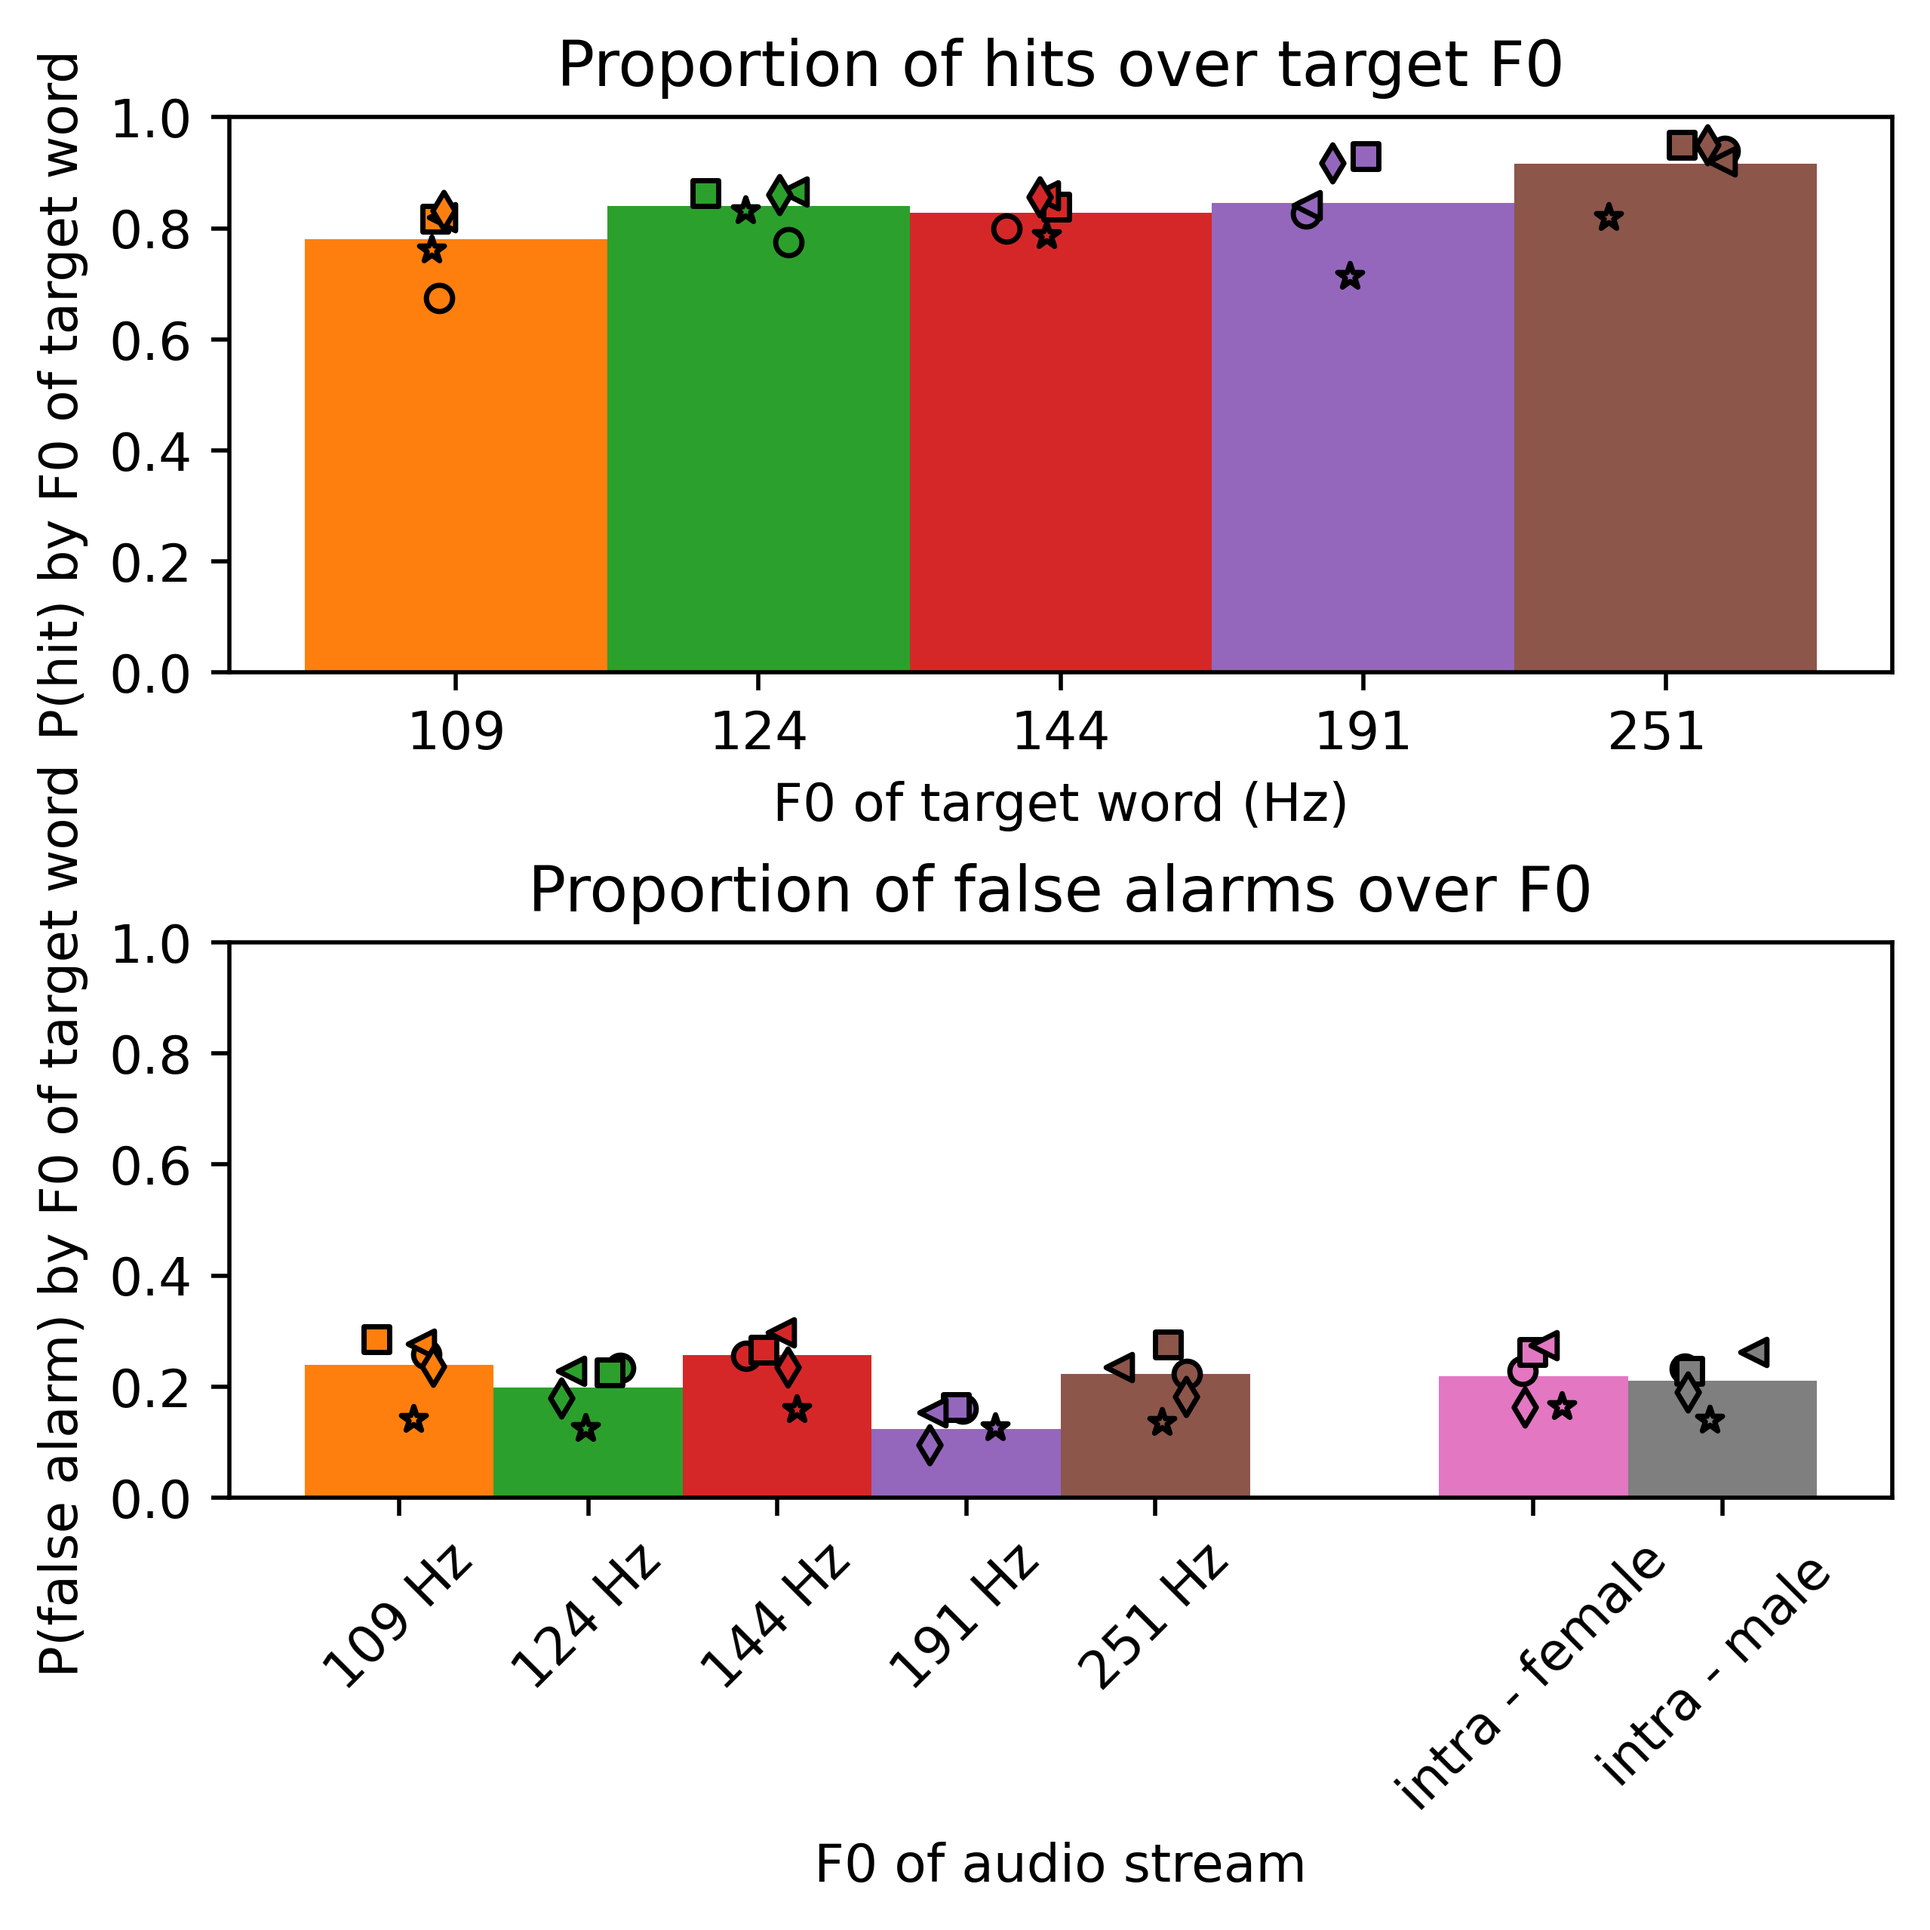
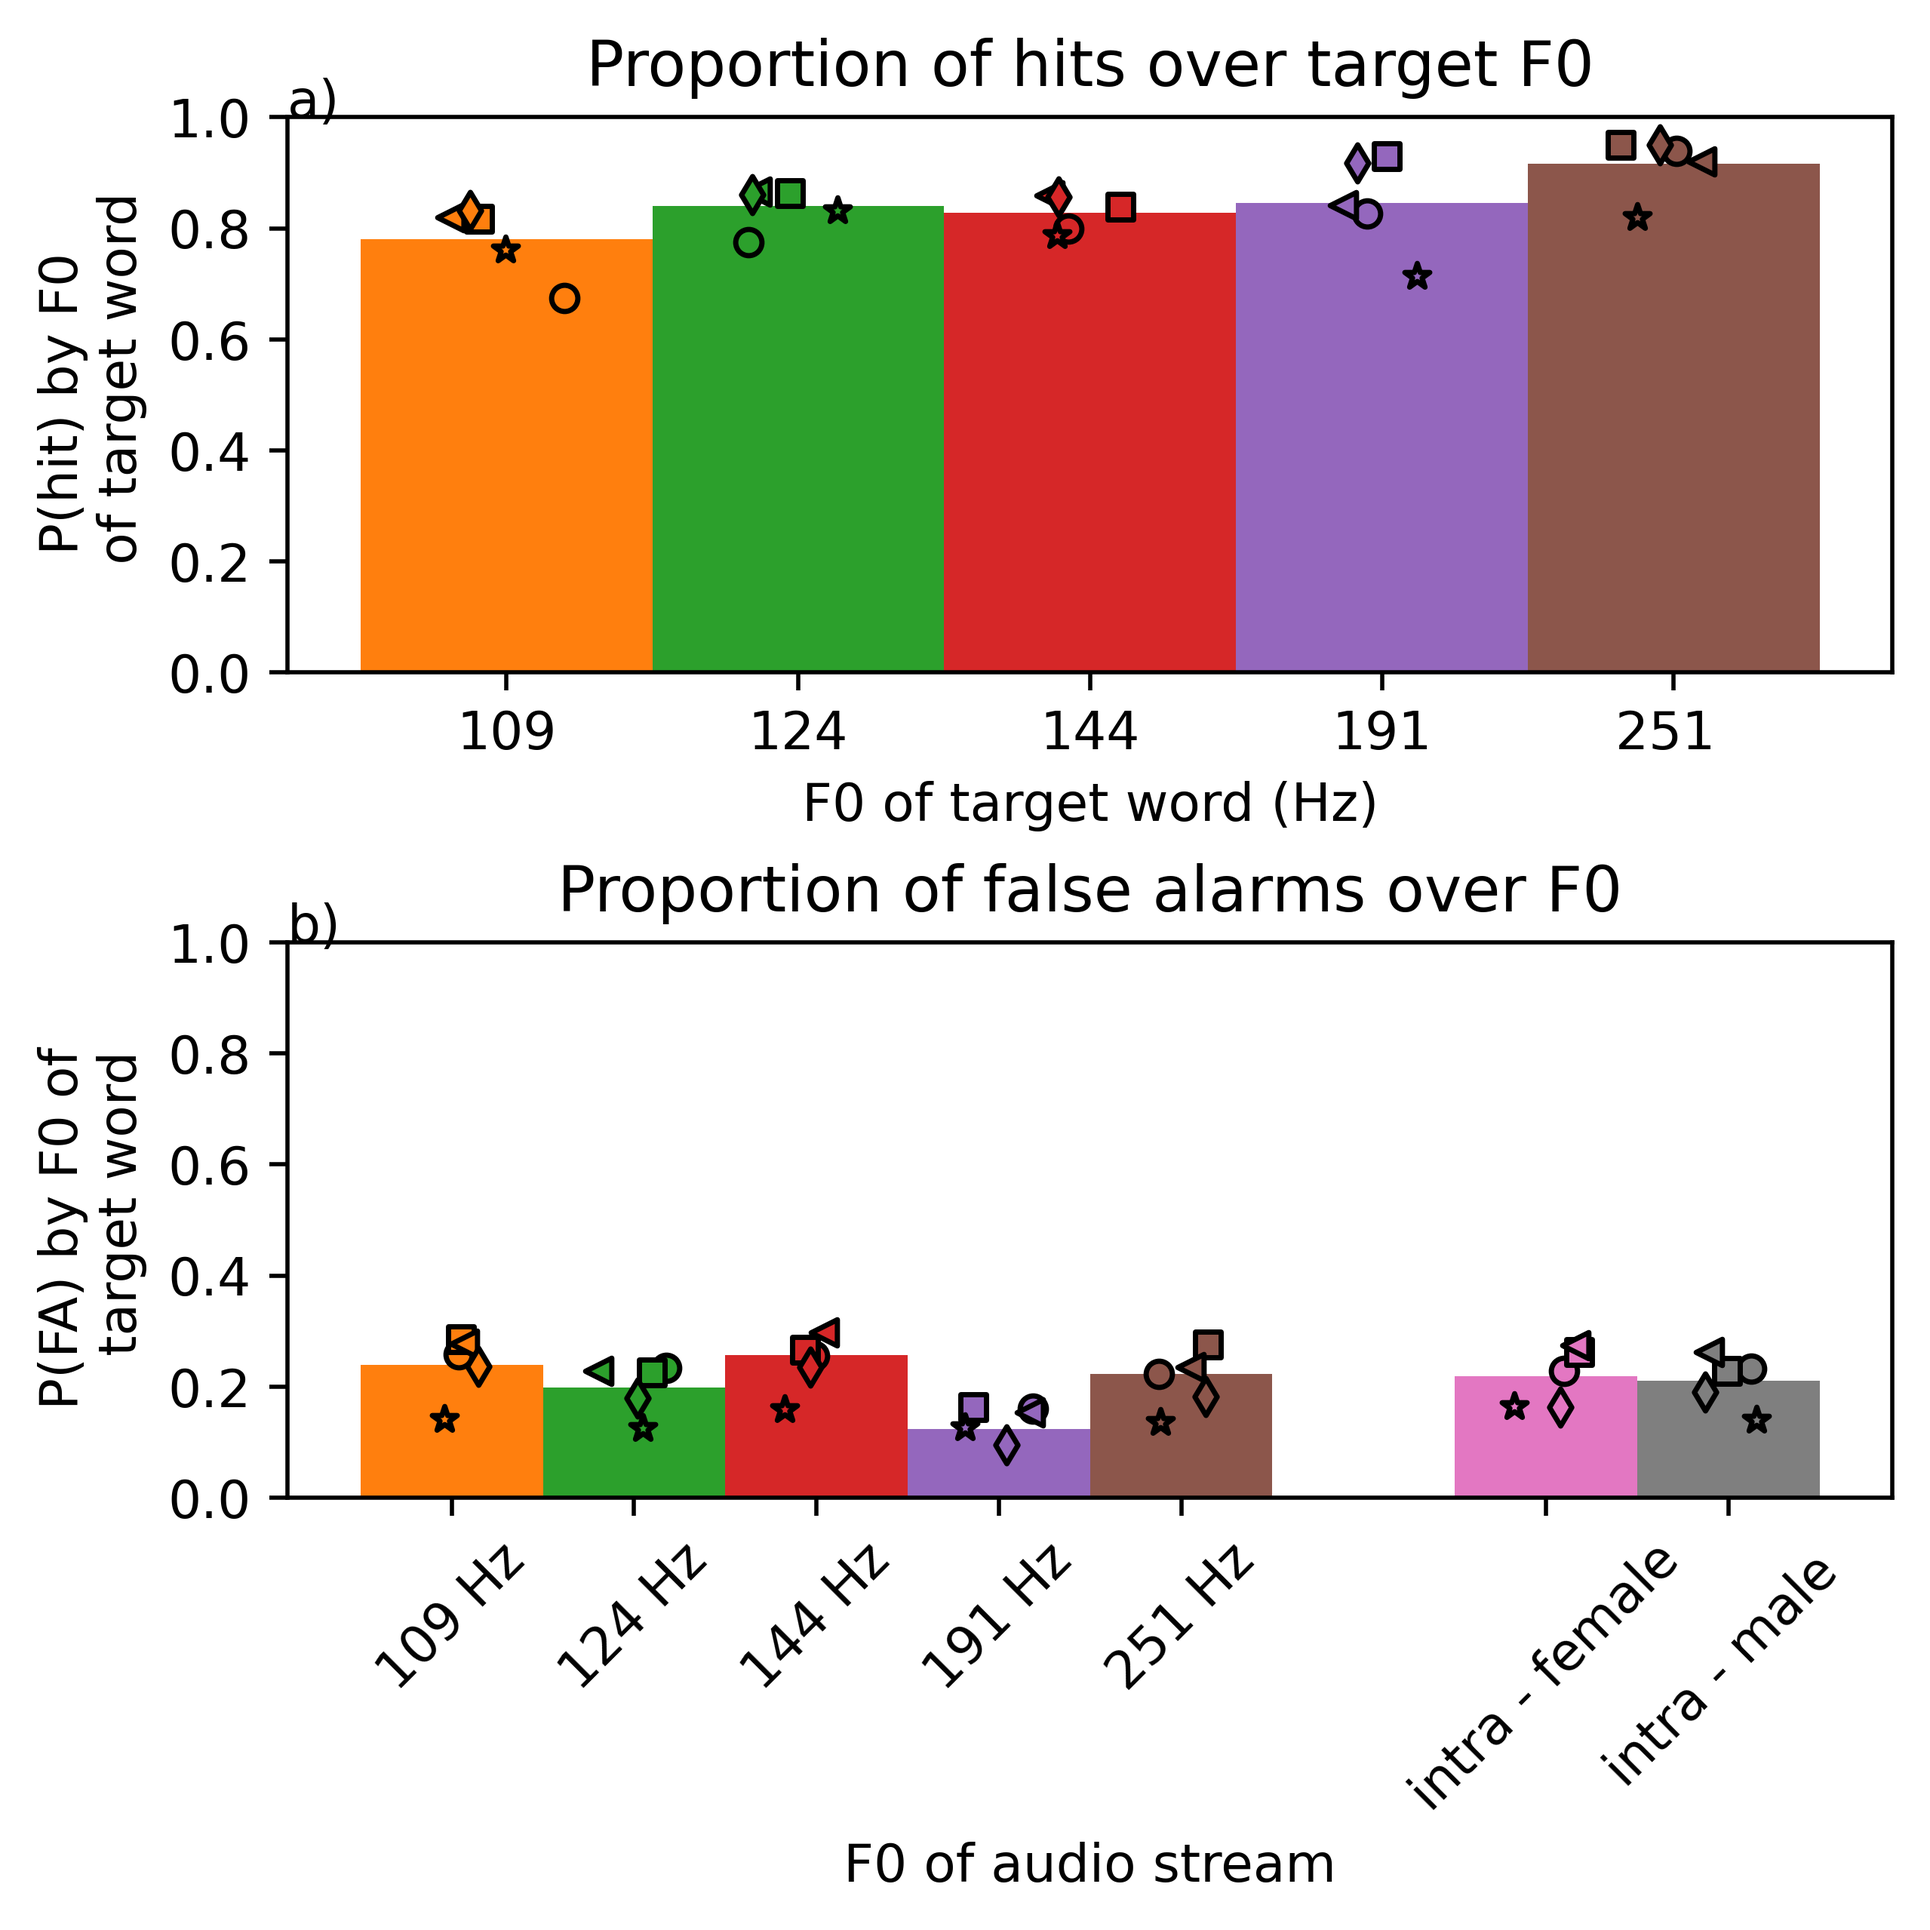
adding legend and figure labels

diff --git a/models/plotstatsacrossanimals.py b/models/plotstatsacrossanimals.py
@@ -510,7 +510,7 @@ def plot_stats_by_pitch(stats_dict_all_combined, stats_dict_combined, stats_dict
     width = 0.25  # the width of the bars
     multiplier = 0
     gap_width = 0.2  # Width of the gap between series
-
+    ferret_ids = ['F1702', 'F1815', 'F1803', 'F2002', 'F2105']
     fig, ((ax1, ax2)) = plt.subplots(2,1, layout='constrained',figsize=(5,5))
     #make a panel for the subplots to go into
 
@@ -537,7 +537,7 @@ def plot_stats_by_pitch(stats_dict_all_combined, stats_dict_combined, stats_dict
             multiplier += 1
 
     ax1.set_ylim(0, 1)
-    ax1.set_ylabel('P(hit) by F0 of target word')
+    ax1.set_ylabel('P(hit) by F0 \n  of target word')
     ax1.set_title('Proportion of hits over target F0')
 
     width = 0.25  # the width of the bars
@@ -582,13 +582,18 @@ def plot_stats_by_pitch(stats_dict_all_combined, stats_dict_combined, stats_dict
             for ferret, ferret_data in stats_dict_intra[talker]['intra_trial_roving']['false_alarms'].items():
                 # add jitter to offset
                 offset_jitter = offset + np.random.uniform(-0.05, 0.05)
-                ax2.scatter(offset_jitter, ferret_data, 25, color=color, marker=marker_list[count], label='_nolegend_',
+                if multiplier == 7:
+                    ax2.scatter(offset_jitter, ferret_data, 25, color=color, marker=marker_list[count],
+                                label=ferret_ids[count], edgecolors='black')
+                else:
+                    ax2.scatter(offset_jitter, ferret_data, 25, color=color, marker=marker_list[count], label='_nolegend_',
                             edgecolors='black')
                 count += 1
             multiplier += 1
 
     ax2.set_ylim(0, 1)
-    ax2.set_ylabel('P(false alarm) by F0 of target word')
+    ax2.legend(bbox_to_anchor=(1.05, 1), loc='upper left', borderaxespad=0.)
+    ax2.set_ylabel('P(FA) by F0 of \n  target word')
     ax2.set_title('Proportion of false alarms over F0')
     ax2.set_xlabel('F0 of audio stream')
     ax2.set_xticks([0, 0.25, 0.5, 0.75, 1.0, 1.5, 1.75], ['109 Hz', '124 Hz', '144 Hz', '191 Hz', '251 Hz', 'intra - female', 'intra - male '], rotation=45)
@@ -599,15 +604,16 @@ def plot_stats_by_pitch(stats_dict_all_combined, stats_dict_combined, stats_dict
 
     # import matplotlib.font_manager as fm
     #
-    # # ax1.annotate('a)', xy=get_axis_limits(ax1))
-    # # ax2.annotate('b)', xy=get_axis_limits(ax2))
+    # ax1.annotate('a)', xy=get_axis_limits(ax1))
+    # ax2.annotate('b)', xy=get_axis_limits(ax2))
     # # ax3.annotate('c)', xy=get_axis_limits(ax3))
     # # ax4.annotate('d)', xy=get_axis_limits(ax4))
     # title_y = ax1.title.get_position()[1]  # Get the y-coordinate of the title
     # font_props = fm.FontProperties(weight='bold')
-    #
-    # ax1.annotate('a)', xy=get_axis_limits(ax1), xytext=(-0.1, ax1.title.get_position()[1]+0.1), textcoords='axes fraction', fontproperties = font_props, zorder=10)
-    # ax2.annotate('b)', xy=get_axis_limits(ax2), xytext=(-0.1, ax2.title.get_position()[1]+0.1), textcoords='axes fraction', fontproperties = font_props,zorder=10)
+    font_props = fm.FontProperties(weight='bold', size=17)
+
+    ax1.annotate('a)', xy=get_axis_limits(ax1), xytext=(-0.1, ax1.title.get_position()[1]+0.1), textcoords='axes fraction', fontproperties = font_props, zorder=10)
+    ax2.annotate('b)', xy=get_axis_limits(ax2), xytext=(-0.1, ax2.title.get_position()[1]+0.1), textcoords='axes fraction', fontproperties = font_props,zorder=10)
     # ax3.annotate('c)', xy=get_axis_limits(ax3), xytext=(-0.1, ax3.title.get_position()[1]+0.1), textcoords='axes fraction', fontproperties = font_props,zorder=10)
     # ax4.annotate('d)', xy=get_axis_limits(ax4), xytext=(-0.1, ax4.title.get_position()[1]+0.1), textcoords='axes fraction', fontproperties = font_props,zorder=10)
     #
@@ -642,7 +648,7 @@ def run_barplot_pipeline():
 
 if __name__ == '__main__':
     stats_dict_empty = {}
-    run_barplot_pipeline()
+    # run_barplot_pipeline()
     ferrets = ['F1702_Zola', 'F1815_Cruella', 'F1803_Tina', 'F2002_Macaroni', 'F2105_Clove']
     df = behaviouralhelperscg.get_stats_df(ferrets=ferrets, startdate='04-01-2016', finishdate='01-03-2023')
     stats_dict_all_inter, stats_dict_inter = run_stats_calc_by_pitch(df, ferrets, stats_dict_empty, pitch_param='inter_trial_roving')

diff --git a/models/runfalsealarmmodel.py b/models/runfalsealarmmodel.py
@@ -504,7 +504,8 @@ def plotfalsealarmmodel(xg_reg, ypred, y_test, results, X_train, y_train, X_test
     plt.savefig(fig_dir / 'trialtime_colouredbyprecur.png', dpi=1000)
     plt.show()
 
-    mosaic = ['A', 'B', 'C'], ['D', 'B', 'E']
+    mosaic = ['A', 'A', 'B', 'B' , 'C', 'C'], ['D','D', 'E', 'E' ]
+
     fig = plt.figure(figsize=(20, 10))
     ax_dict = fig.subplot_mosaic(mosaic)
 
@@ -1317,7 +1318,7 @@ def plot_reaction_times_interandintra_swarm(ferrets):
 
 if __name__ == '__main__':
     ferrets = ['F1702_Zola', 'F1815_Cruella', 'F1803_Tina', 'F2002_Macaroni', 'F2105_Clove']
-    # plot_reaction_times_interandintra_swarm(ferrets)
+    plot_reaction_times_interandintra_swarm(ferrets)
     xg_reg2, ypred2, y_test2, results2, shap_values, X_train, y_train, bal_accuracy, shap_values2 = runfalsealarmpipeline(
         ferrets, optimization=True, ferret_as_feature=True)
     # ferrets = ['F2105_Clove']# 'F2105_Clove'
